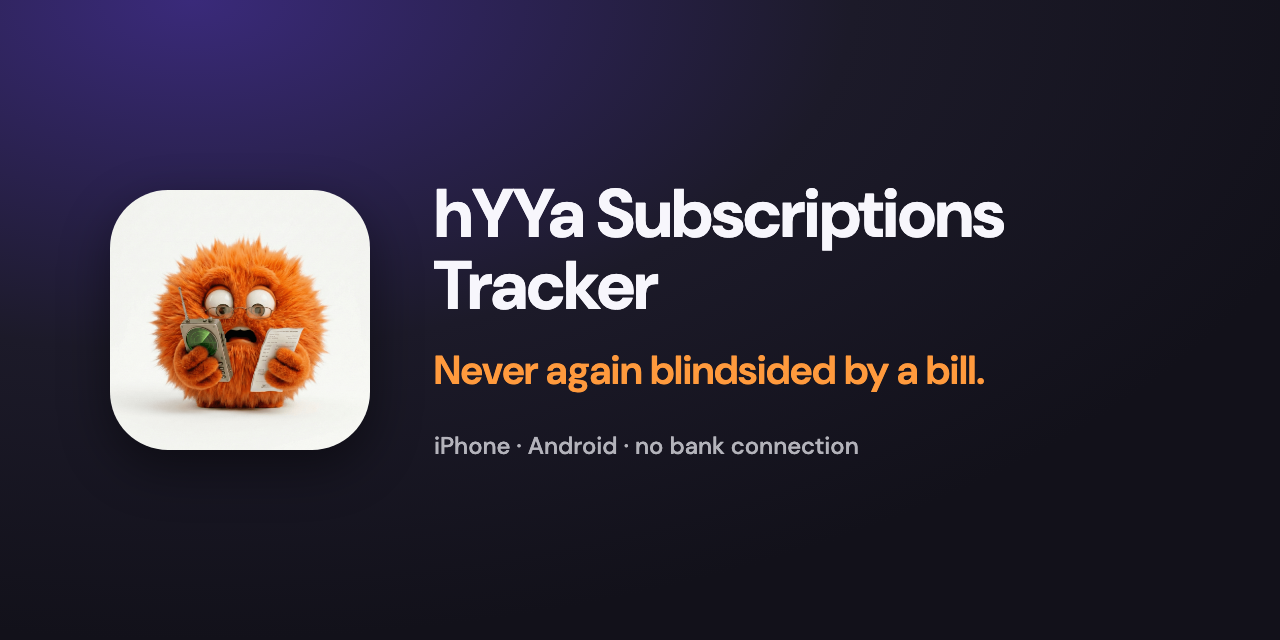
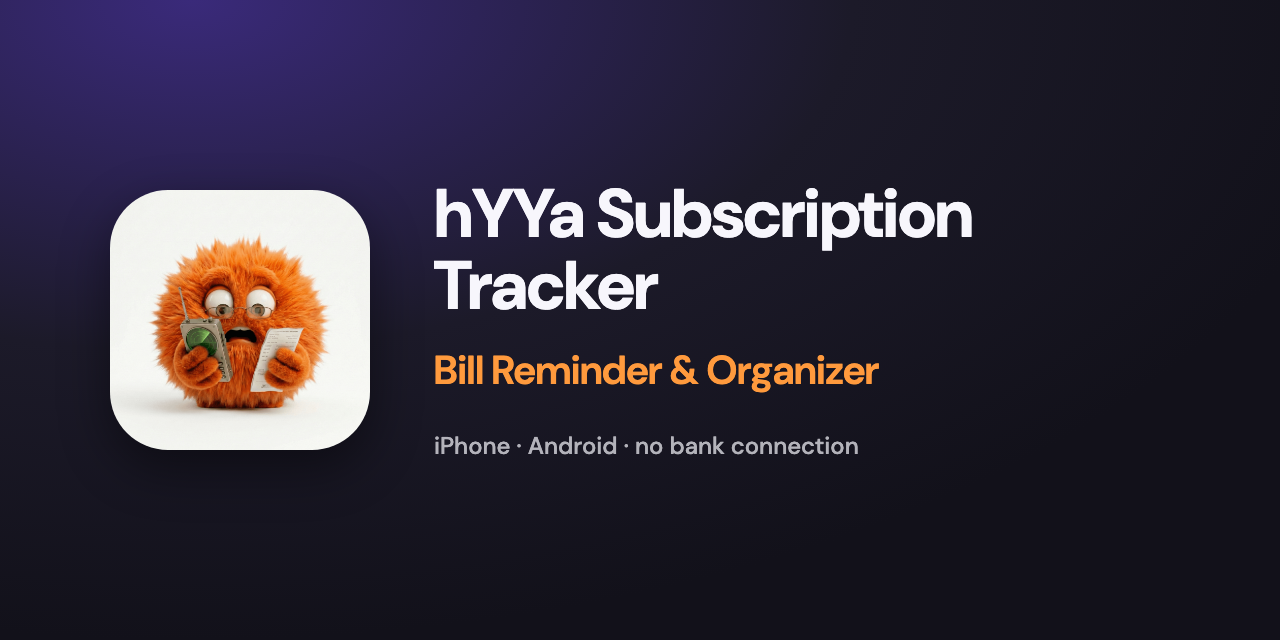
Name is now hYYa Subscription Tracker; subtitle Bill Reminder & Organizer; new social preview

Changed region(s): [[0.3438, 0.5312, 0.7812, 0.625], [0.75, 0.3125, 0.7812, 0.375]]

diff --git a/SECURITY.md b/SECURITY.md
@@ -2,7 +2,7 @@
 
 ## Report a security problem privately
 
-If you find a security problem in hYYa Subscriptions Tracker, such as a way to see another person's subscriptions or receipts, to add or change data on someone else's account, or to get a paid plan without paying, please tell us **privately** by **[email to our security team](mailto:security@hyya.com?subject=hYYa%20Subscriptions%20Tracker%20security%20report)**, or through [hyya.com/contact.html](https://hyya.com/contact.html). In the app, **Settings › About › Report a Security Issue** opens the same email.
+If you find a security problem in hYYa Subscription Tracker, such as a way to see another person's subscriptions or receipts, to add or change data on someone else's account, or to get a paid plan without paying, please tell us **privately** by **[email to our security team](mailto:security@hyya.com?subject=hYYa%20Subscription%20Tracker%20security%20report)**, or through [hyya.com/contact.html](https://hyya.com/contact.html). In the app, **Settings › About › Report a Security Issue** opens the same email.
 
 **Please don't open a public issue for it.** Issues in this repository are public as soon as they are filed, and a problem described here before it is fixed puts every user at risk.
 

diff --git a/README.md b/README.md
@@ -1,6 +1,6 @@
-# hYYa Subscriptions Tracker
+# hYYa Subscription Tracker
 
-**Never again blindsided by a bill.**
+**Bill Reminder & Organizer.** Never again blindsided by a bill.
 
 Track every subscription and repeating bill, and get a reminder before each renewal, without ever connecting a bank or card.
 
